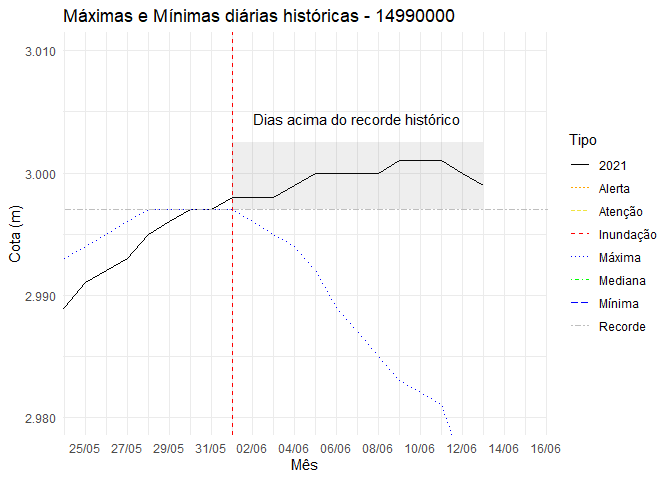
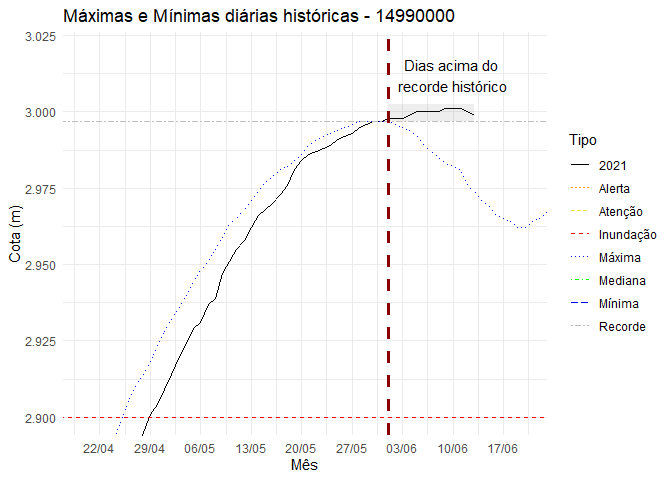
Atualização do Readme

diff --git a/README.md b/README.md
@@ -1,7 +1,7 @@
 
 <!-- README.md is generated from README.Rmd. Please edit that file -->
 
-# tffdt
+# Trabalho Final de Faxina de Dados do Théo (tffdt)
 
 <!-- badges: start -->
 
@@ -18,7 +18,7 @@ telemétricos de uma estação que está instalada no Rio Negro, com o
 código 14990000, que se encontra perto de Manaus. Pelas reportagens
 noticiadas na TV e na internet, podemos observar a preocupação da
 população local com o nível da água, pois não só atrapalha a rotina da
-cidade como existem pessoas perdem roupas, móveis, automóveis e até
+cidade como existem pessoas que perdem roupas, móveis, automóveis e até
 casas.
 
 ## Análise dos dados
@@ -56,26 +56,137 @@ Depois foi preciso ordenar o banco de dados pelas colunas data\_hora e
 nivel\_consistencia para retirar as informações duplicadas, dando
 preferëncia aos dados de nível consistidos do que os dados brutos.
 
-### Dados telemétricos
-
-Para arrumar os dados, foi preciso transformar todos os dados em branco
-em NA, transformar as variáveis Nivel,Vazao e Chuva em númericos e
-DataHora em datetime.
+Abaixo está o código para pegar o dado bruto e o dado arrumado.
 
 ``` r
-install.packages("tffdt")
+pegar_historico <- function(cod_estacao,
+                            data_inicio='',
+                            data_fim='',
+                            tipo_dados,
+                            nivel_consistencia) {
+
+  url <- 'http://telemetriaws1.ana.gov.br/ServiceANA.asmx/HidroSerieHistorica?'
+
+  dados_hidro <- GET(url,
+                     query = list(
+                       codEstacao=cod_estacao,
+                       dataInicio=data_inicio,
+                       dataFim= data_fim,
+                       tipoDados=tipo_dados,
+                       nivelConsistencia=nivel_consistencia
+                     ))
+
+  tabela_hidro <- content(dados_hidro,type='text') %>%
+    XML::xmlParse(encoding = 'UTF-8') %>%
+    getNodeSet('//SerieHistorica') %>%
+    xmlToDataFrame() %>%
+    tibble()
+
+}
+
+historico_total_manaus_bruto <-
+  pegar_historico('14990000',tipo_dados = 1, nivel_consistencia = 1)
+
+historico_total_manaus_consistido <-
+  pegar_historico('14990000',tipo_dados = 1, nivel_consistencia = 2)
+
+historico_bruto_total_manaus <-
+  dplyr::bind_rows(historico_total_manaus_bruto,historico_total_manaus_consistido)
+
+usethis::use_data(historico_bruto_total_manaus, overwrite = TRUE)
+
+historico_total_manaus <-
+  historico_bruto_total_manaus %>%
+  dplyr::select(-ends_with('Status'),
+         -DataIns,
+         -EstacaoCodigo,
+         -contains('Maxima'),
+         -contains('Minima'),
+         -contains('Media'),
+         -TipoMedicaoCotas
+  ) %>%
+  tidyr::pivot_longer(starts_with('Cota'),
+               names_to = 'dia_cota' ,
+               values_to = 'nivel_cota') %>%
+  janitor::clean_names() %>%
+  dplyr::mutate(data_hora=lubridate::as_datetime(data_hora),
+         dia_cota=stringr::str_remove(dia_cota,'Cota') %>% as.numeric(),
+         nivel_cota=as.numeric(nivel_cota),
+         data_hora= data_hora + lubridate::days(dia_cota-1),
+         nivel_consistencia=as.numeric(nivel_consistencia)
+  ) %>%
+  dplyr::arrange(data_hora,desc(nivel_consistencia)) %>%
+  dplyr::select(-dia_cota) %>%
+  tidyr::drop_na(nivel_cota) %>%
+  dplyr::distinct(data_hora,.keep_all = TRUE)
 ```
 
-And the development version from [GitHub](https://github.com/) with:
+### Dados telemétricos
+
+Para obter os dados de 2021, foi preciso fazer a função para baixar do
+site. Para arrumar os dados, foi preciso transformar todos os dados em
+branco em NA, transformar as variáveis Nivel,Vazao e Chuva em númericos
+e DataHora em datetime.
+
+``` r
+pegar_dados <- function(nome_estacao,
+                        data_inicio=format(floor_date( Sys.Date(),unit='years'),'%d/%m/%Y'),
+                        data_fim=format(Sys.Date(),'%d/%m/%Y'))
+{
+  url <- 'http://telemetriaws1.ana.gov.br/ServiceANA.asmx/DadosHidrometeorologicos?'
+
+  dados_hidro <- GET(url,
+                     query = list(
+                       codEstacao=nome_estacao,
+                       dataInicio=data_inicio,
+                       dataFim= data_fim
+                     ))
+
+  tabela_hidro <- content(dados_hidro,type='text') %>%
+    XML::xmlParse(encoding = 'UTF-8') %>%
+    getNodeSet('//DadosHidrometereologicos') %>%
+    xmlToDataFrame() %>%
+    tibble()
+  
+  dados_brutos_telemetria_manaus <- pegar_dados('14990000')
+
+  dados_brutos_telemetria_manaus %>%
+  janitor::clean_names() %>% # transforma os nomes das colunas
+  dplyr::na_if('')%>% # Substitui o '' por NA
+  dplyr::mutate(dplyr::across(c(nivel,chuva,vazao),as.numeric), # Transforma as variáveis em númericos
+                data_hora = stringr::str_squish(data_hora) %>% # Transforma em datetime
+                  lubridate::as_datetime())
+
+  
+```
+
+Os dados, tanto brutos quanto arrumados, e as funções foram colocados
+nesse pacote, que se chama ‘tffdt’ e está no
+[GitHub](https://github.com/theoadepaula/tffdt). Pode ser baixado pelos
+comandos abaixo:
 
 ``` r
 # install.packages("devtools")
 devtools::install_github("theoadepaula/tffdt")
 ```
 
-## Example
+## Análise dos dados arrumados
 
-This is a basic example which shows you how to solve a common problem:
+### Gráfico Mensal
+
+Em uma primeira análise, foi feito um gráfico para observar os valores
+mínimos, medianos e máximos de cada mês, além de acrescentar a linha de
+cota máxima recorde (2997 cm). A série histórica possui valores desde
+1902, e por questão de ver os dados sem influência das primeiras
+coletas, foi descartado esse primeiro ano. Os dados foram agrupados por
+mês, descartados os valores faltantes e mostrados apenas os valores
+pedidos no primeiro parágrafo. Após retorno dos dados solicitados, a
+tabela foi reorganizada para fazer o gráfico, de modo que os tipos de
+valores (Mínima, Mediana, Máxima e Recorde) sejam aparecidos em uma
+coluna e utilizados como grupo de cores no ggplot.
+
+É possível observar que os valores máximos anuais se encontram nos meses
+de maio e junho.
 
 ``` r
 library(tffdt)
@@ -112,6 +223,13 @@ max_min_historica_mensal_manaus %>%
 ```
 
 <img src="man/figures/README-example_1-1.png" width="100%" />
+
+### Gráfico Diário
+
+Esse segundo gráfico é baseado nos dados agrupados por dia e mês. Agora
+podemos ver não um ponto ao longo do mês, mas os pontos no decorrer dos
+dias. Entre a segunda quinzena de maio e a segunda quinzena de junho é
+observado historicamente o período com o maior nível de água na região.
 
 ``` r
 max_min_historica_diaria_manaus <-
@@ -156,6 +274,17 @@ diaria_historico%>%#filter(tipo=='Mediana') %>%
 
 <img src="man/figures/README-example_2-1.png" width="100%" />
 
+Para entendermos como o ano de 2021 está em relação aos dados obtidos no
+gráfico anterior, podemos acrescentar os dados de 2021. Para um melhor
+entendimento do que se passa na região, foram linhas informando os
+níveis de atenção (2700 cm), de alerta (2750 cm) e de inundação (2900
+cm), fornecidos pela Defesa Civil do Estado. Os dados de 2021 são de
+01/01/2021 até 13/06/2021.
+
+Podemos ver que em 2021, o nível de água já ultrapassou o nível de
+inundação e que parece ter ultrapassado até mesmo o recorde histórico da
+região. Vamos dar um zoom no gráfico para ver melhor essa situação.
+
 ``` r
 dados_telemetria_2021 <- dados_telemetria_manaus %>%
   filter(year(data_hora)==2021) %>%
@@ -176,7 +305,6 @@ tabela_grafico <-bind_rows(diaria_historico,dados_telemetria_2021) %>%
   pivot_wider(data,names_from = tipo,values_from = cota,values_fill = NA) %>%
   mutate(Atenção=2700, Alerta=2750, Inundação=2900, Recorde=2997)%>%
   pivot_longer(-data,names_to = 'tipo', values_to = 'cota')
-
 
 g2021 <- tabela_grafico%>%
   ggplot(aes(data,cota,color=tipo,group=tipo,linetype=tipo))+
@@ -216,16 +344,24 @@ g2021
 
 <img src="man/figures/README-example_3-1.png" width="100%" />
 
+Ao fazer o recorte do perído entre 20 de abril a 20 de julho, é possível
+observar que desde o dia 29 de abril o nível de água está acima do nível
+de inundação e que no dia primeiro de junho o nível de água está acima
+do recorde histórico. Até a data informada (13/06/2021), o nível de água
+está em 2999 cm ,acima de 2997 cm (recorde), e apresenta uma tendência
+de queda. Chegou ao máximo nível de água, com 3001 cm, entre os dias 9 a
+11 de junho de 2021.
+
 ``` r
 g2021 + 
-  coord_cartesian(ylim = c(2980,3010),xlim = c(as_date('2021-05-25'),as_date('2021-06-15')))+
-  scale_x_date(date_labels = '%d/%m',date_breaks = '2 days')+
+  coord_cartesian(ylim = c(2900,3020),xlim = c(as_date('2021-04-20'),as_date('2021-06-20')))+
+  scale_x_date(date_labels = '%d/%m',date_breaks = '7 days')+
   geom_vline(xintercept=tabela_grafico %>% filter(cota>2997) %>% slice(1) %>% pull(data),
-             linetype='dashed', color='red')+
+             linetype='dashed', color='#8b0000',size=1.2)+
   annotate("rect", xmin = as_date('2021-06-01'), xmax = as_date('2021-06-13'), 
            ymin = 2997, ymax = 3002.5,  alpha = .1)+
-  annotate("text", x = as_date('2021-06-07'), y = 3004.5,
-           label='Dias acima do recorde histórico')
+  annotate("text", x = as_date('2021-06-10'), y = 3012,
+           label='Dias acima do \nrecorde histórico')
 ```
 
 <img src="man/figures/README-example_4-1.png" width="100%" />
